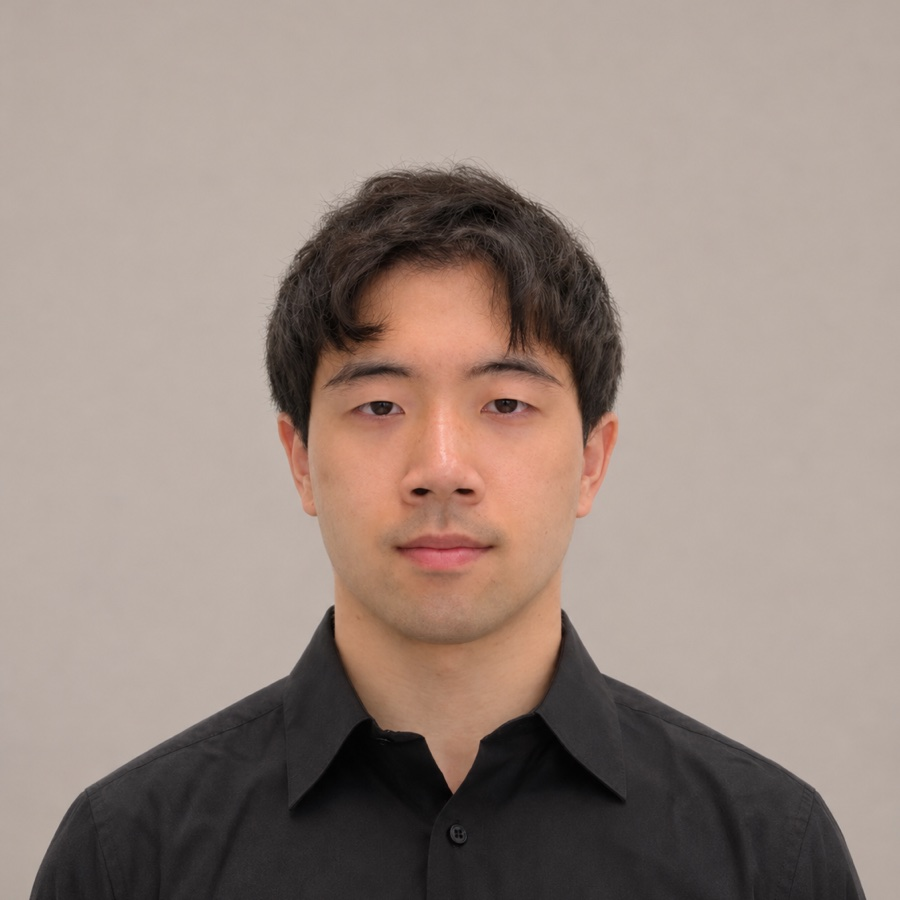
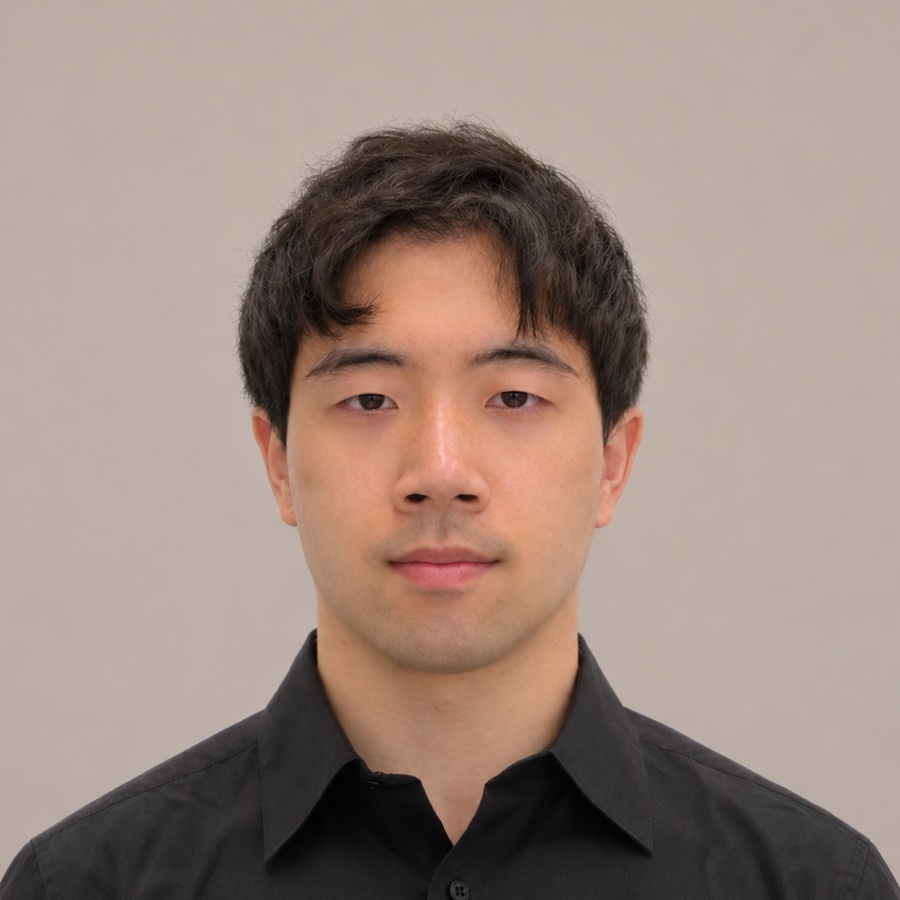
Straighten the homepage photo

diff --git a/src/routes/index.tsx b/src/routes/index.tsx
@@ -54,8 +54,6 @@ function Index() {
               className="h-full w-full object-cover"
               style={{
                 objectPosition: "50% 50%",
-                transform: "rotate(9deg) scale(1.15)",
-                transformOrigin: "center",
                 filter: "brightness(1.08)",
               }}
             />
